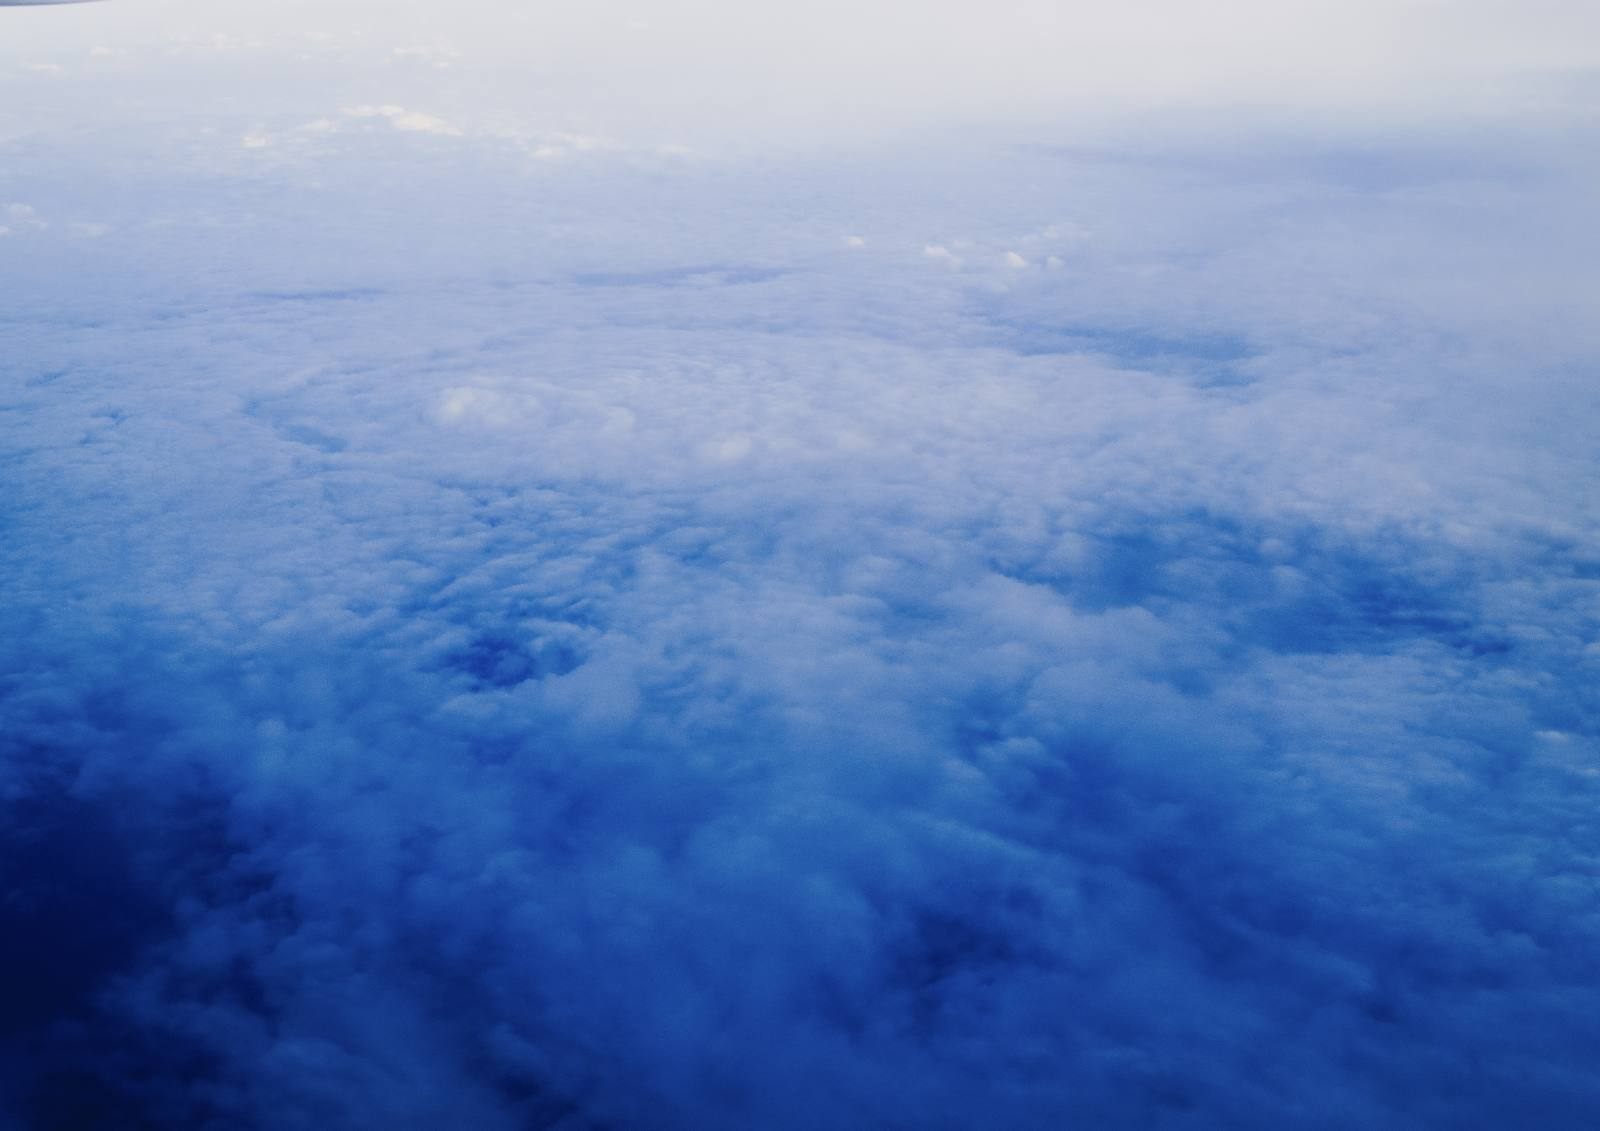
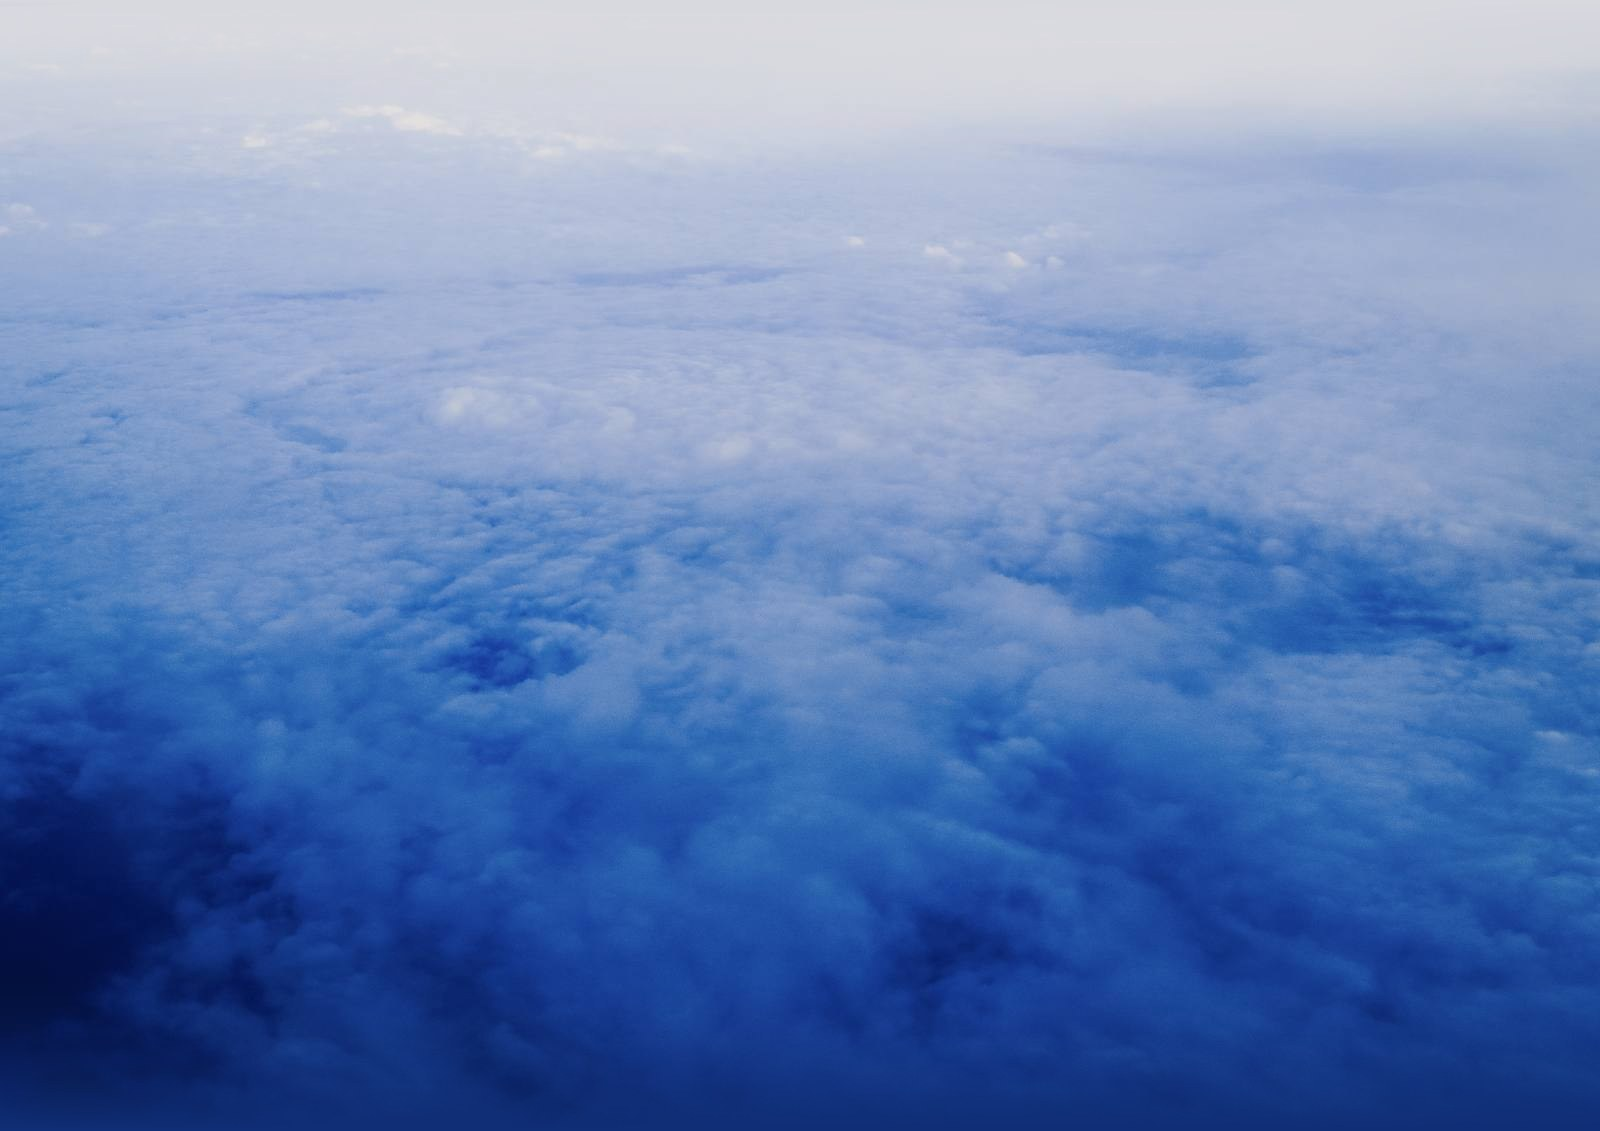
Add files via upload

diff --git a/js/main.js b/js/main.js
@@ -80,7 +80,7 @@ function edgeColors(s,d,k,y,VH){
    for(var i=0;i<px.length;i+=4){t[0]+=px[i];t[1]+=px[i+1];t[2]+=px[i+2];n++}
    return '#'+t.map(function(v){v=Math.round(v/n*s.op+255*(1-s.op));return('0'+v.toString(16)).slice(-2)}).join('');
   };
-  out.top=pick(-y/k);out.bot=pick((VH-200-y)/k);
+  out.top=pick(-y/k);out.bot=pick((VH-y)/k-1);
  }catch(e){}
  return out;
 }
